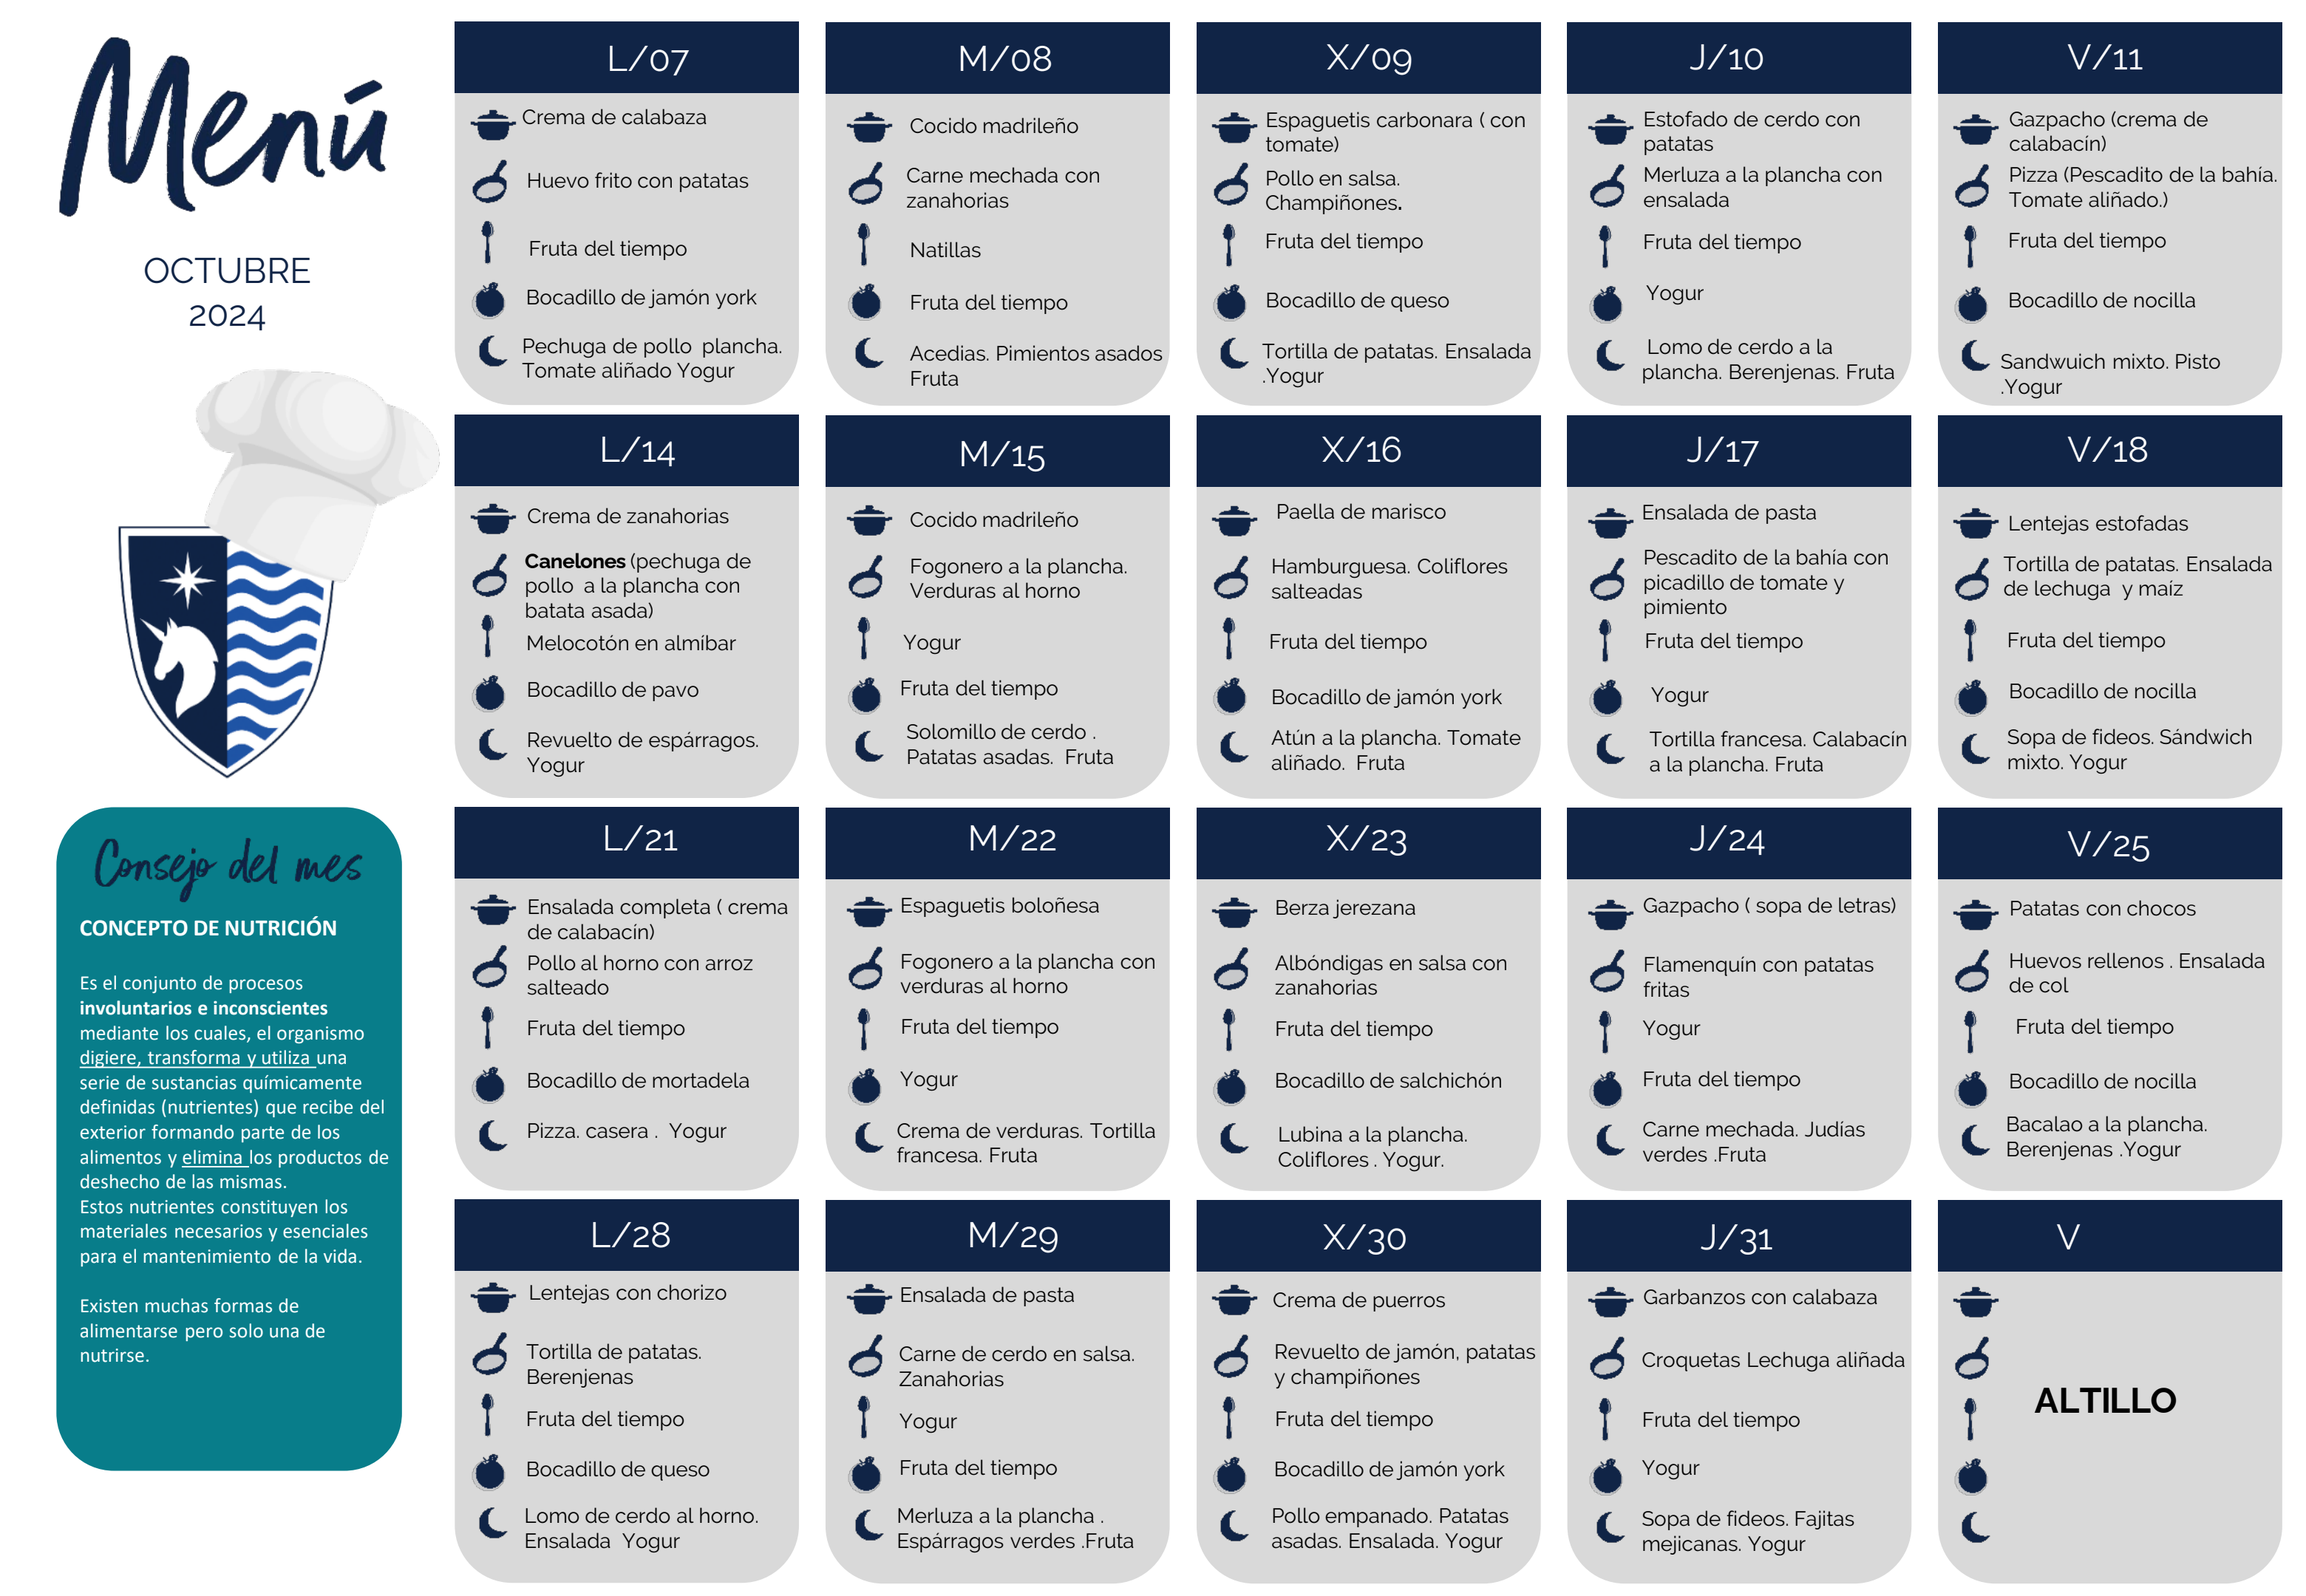
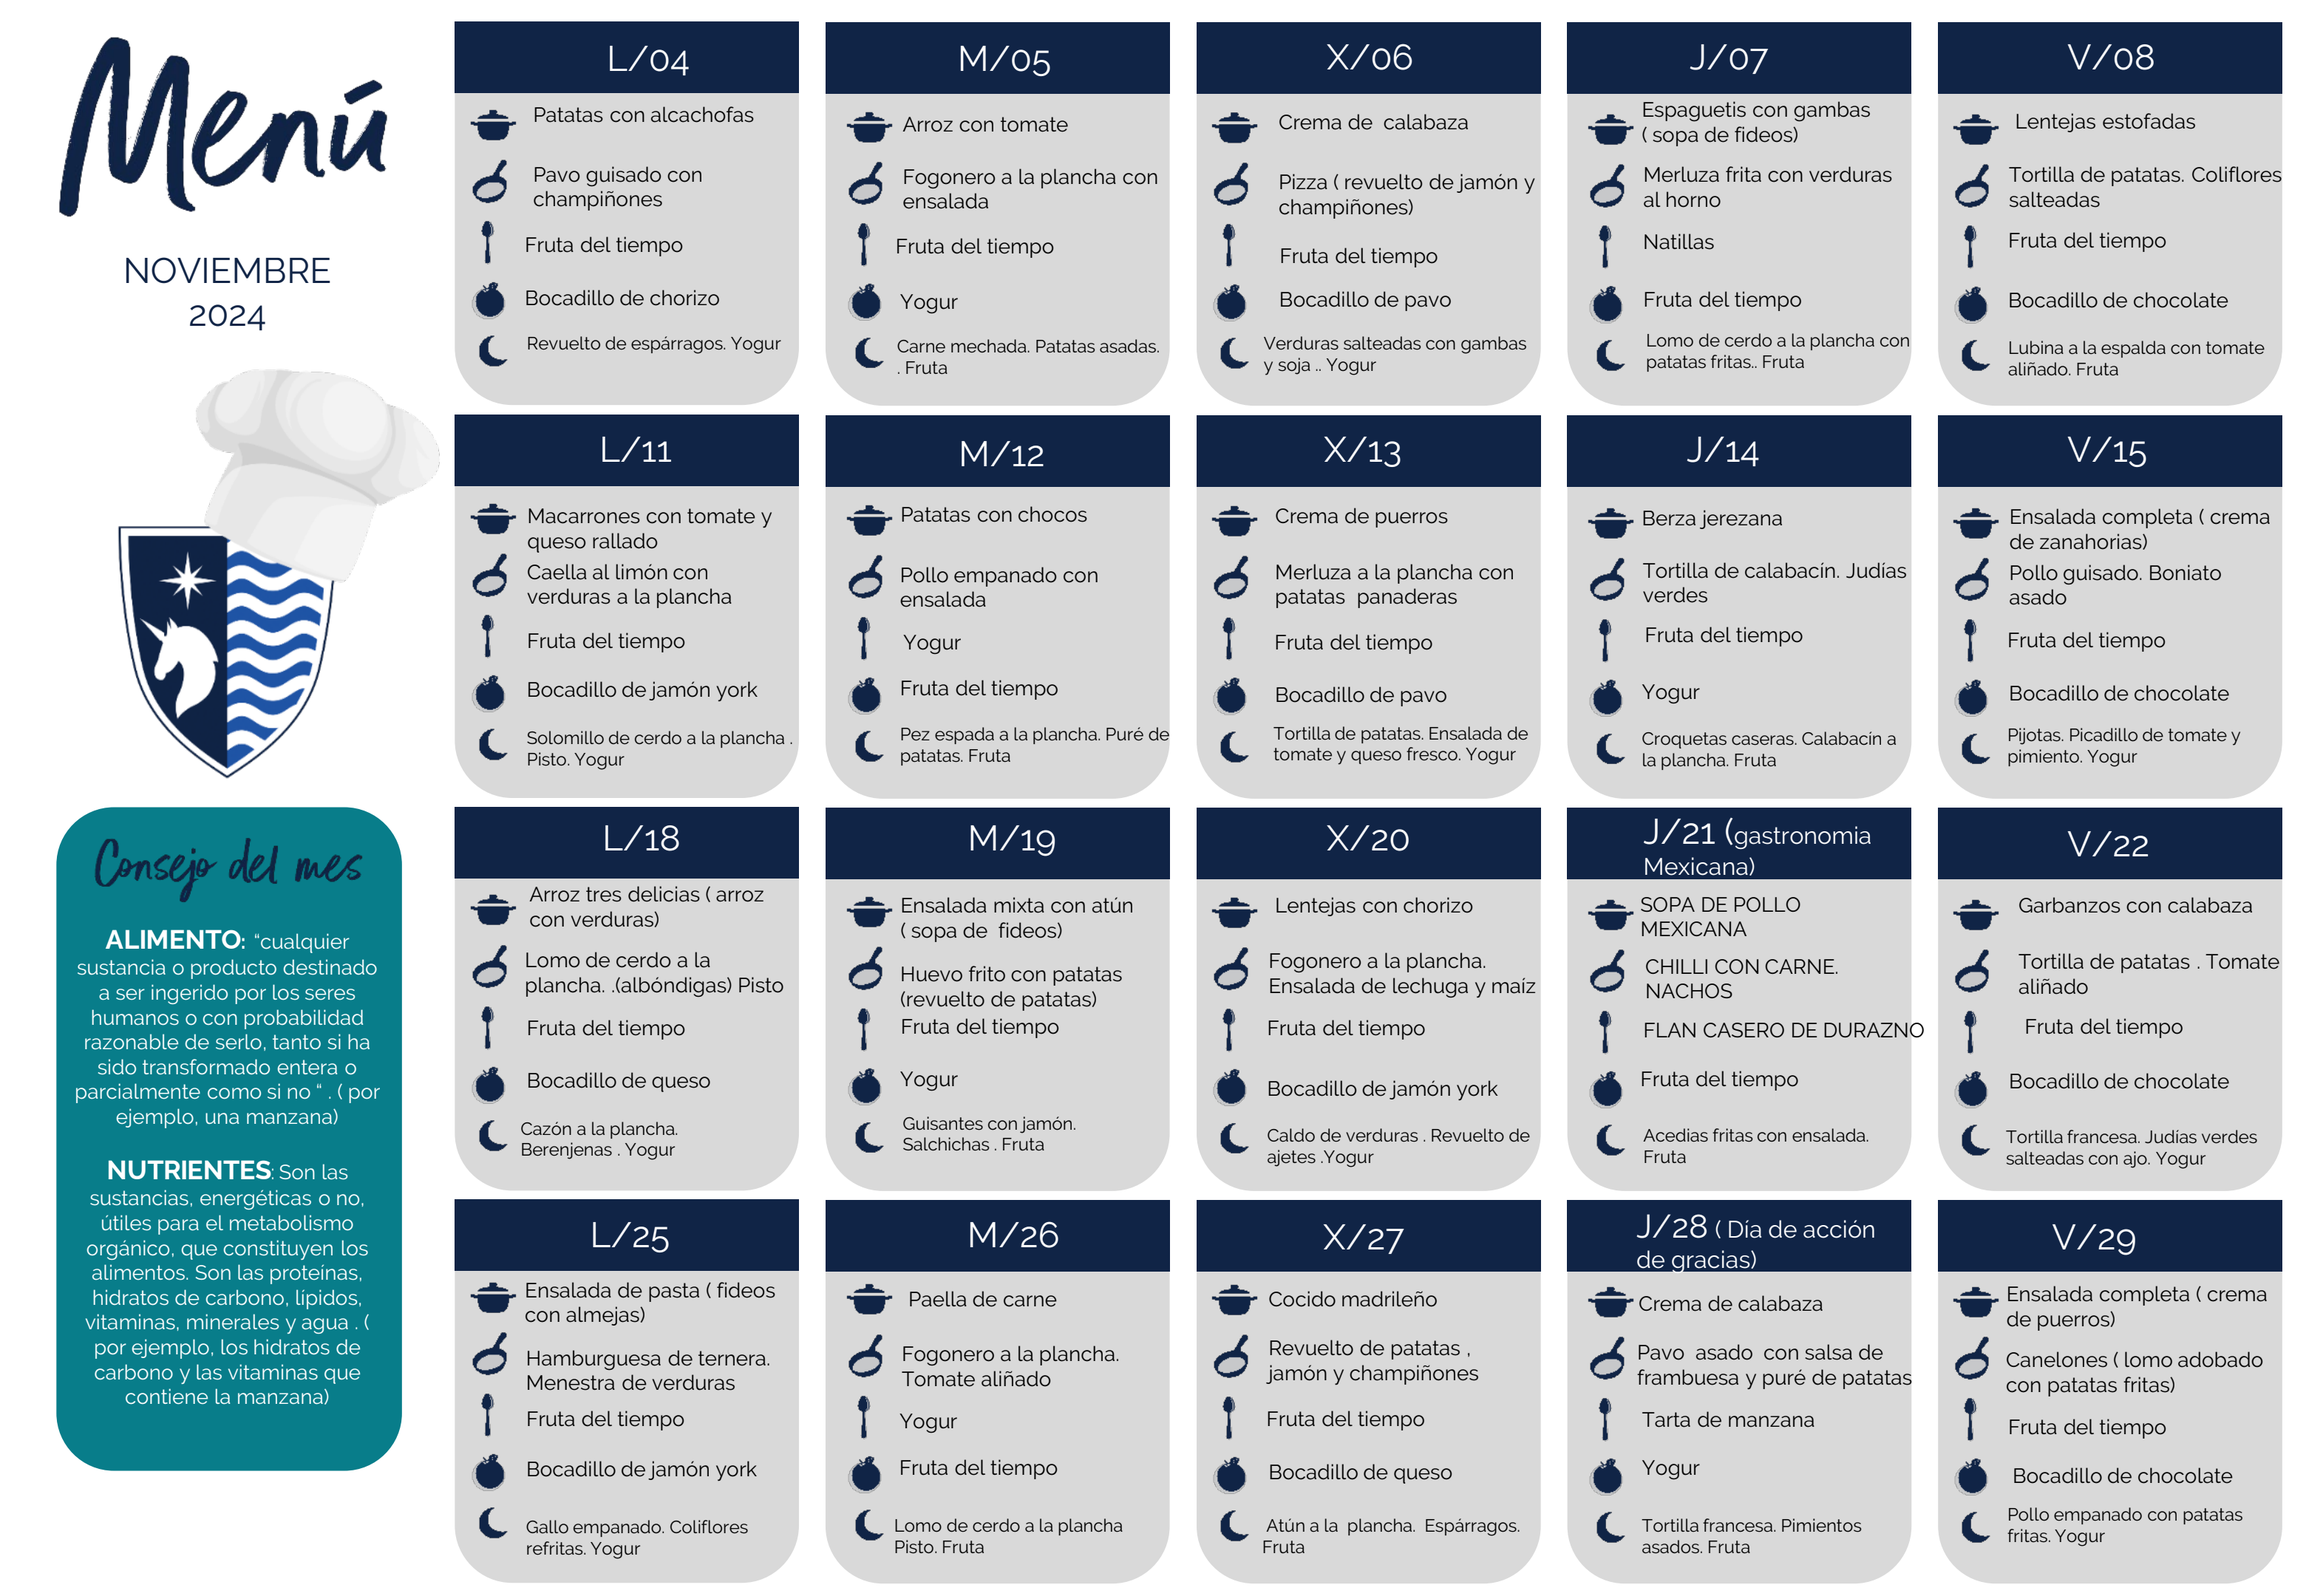
menu actualizado

diff --git a/pages/menu.html b/pages/menu.html
@@ -28,26 +28,30 @@
 </center>
 <script>
   const menu = {
-    "Lunes 7 Oct": ["Crema de calabaza", "Huevo frito con patatas", "Fruta del tiempo"],
-    "Martes 8 Oct": ["Cocido madrileño", "Carne mechada con zanahorias", "Natillas"],
-    "Miércoles 9 Oct": ["Espaguetis carbonara (con tomate)", "Pollo en salsa. Champiñones", "Fruta del tiempo"],
-    "Jueves 10 Oct": ["Estofado de cerdo con patatas", "Merluza a la plancha con ensalada", "Fruta del tiempo"],
-    "Viernes 11 Oct": ["Gazpacho (crema de calabacín)", "Pizza (Pescadito de la bahía. Tomate aliñado)", "Fruta del tiempo"],
-    "Lunes 14 Oct": ["Crema de zanahorias", "Canelones (pechuga de pollo a la plancha con batata asada)", "Melocotón en almíbar"],
-    "Martes 15 Oct": ["Cocido madrileño", "Fogonero a la plancha. Verduras al horno", "Yogur"],
-    "Miércoles 16 Oct": ["Paella de marisco", "Hamburguesa. Coliflores salteadas", "Fruta del tiempo"],
-    "Jueves 17 Oct": ["Ensalada de pasta", "Pescadito de la bahía con picadillo de tomate y pimiento", "Fruta del tiempo"],
-    "Viernes 18 Oct": ["Lentejas estofadas", "Tortilla de patatas. Ensalada de lechuga y maíz", "Fruta del tiempo"],
-    "Lunes 21 Oct": ["Ensalada completa (crema de calabacín)", "Pollo al horno con arroz salteado", "Fruta del tiempo"],
-    "Martes 22 Oct": ["Espaguetis boloñesa", "Fogonero a la plancha con verduras al horno", "Fruta del tiempo"],
-    "Miércoles 23 Oct": ["Berza jerezana", "Albóndigas en salsa con zanahorias", "Fruta del tiempo"],
-    "Jueves 24 Oct": ["Gazpacho (sopa de letras)", "Flamenquín con patatas fritas", "Yogur"],
-    "Viernes 25 Oct": ["Patatas con chocos", "Huevos rellenos. Ensalada de col", "Fruta del tiempo"],
-    "Lunes 28 Oct": ["Lentejas con chorizo", "Tortilla de patatas. Berenjenas", "Fruta del tiempo"],
-    "Martes 29 Oct": ["Ensalada de pasta", "Carne de cerdo en salsa. Zanahorias", "Yogur"],
-    "Miércoles 30 Oct": ["Crema de puerros", "Revuelto de jamón, patatas y champiñones", "Fruta del tiempo"],
-    "Jueves 31 Oct": ["Garbanzos con calabaza", "Croquetas. Lechuga aliñada", "Fruta del tiempo"]
-  };
+  "Lunes 4 Nov": ["Patatas con alcachofas", "Pavo guisado con champiñones", "Fruta del tiempo"],
+  "Martes 5 Nov": ["Arroz con tomate", "Fogonero a la plancha con ensalada", "Fruta del tiempo"],
+  "Miércoles 6 Nov": ["Crema de calabaza", "Pizza (revuelto de jamón y champiñones)", "Fruta del tiempo"],
+  "Jueves 7 Nov": ["Espaguetis con gambas (sopa de fideos)", "Merluza frita con verduras al horno", "Natillas"],
+  "Viernes 8 Nov": ["Lentejas estofadas", "Tortilla de patatas. Coliflores salteadas", "Fruta del tiempo"],
+  
+  "Lunes 11 Nov": ["Macarrones con tomate y queso rallado", "Caella al limón con verduras a la plancha", "Fruta del tiempo"],
+  "Martes 12 Nov": ["Patatas con chocos", "Pollo empanado con ensalada", "Yogur"],
+  "Miércoles 13 Nov": ["Crema de puerros", "Merluza a la plancha con patatas panaderas", "Fruta del tiempo"],
+  "Jueves 14 Nov": ["Berza jerezana", "Tortilla de calabacín. Judías verdes", "Fruta del tiempo"],
+  "Viernes 15 Nov": ["Ensalada completa (crema de zanahorias)", "Pollo guisado. Boniato asado", "Fruta del tiempo"],
+  
+  "Lunes 18 Nov": ["Arroz tres delicias (arroz con verduras)", "Lomo de cerdo a la plancha. Albóndigas. Pisto", "Fruta del tiempo"],
+  "Martes 19 Nov": ["Ensalada mixta con atún (sopa de fideos)", "Huevo frito con patatas (revuelto de patatas)", "Fruta del tiempo"],
+  "Miércoles 20 Nov": ["Lentejas con chorizo", "Fogonero a la plancha. Ensalada de lechuga y maíz", "Fruta del tiempo"],
+  "Jueves 21 Nov": ["ESPECIAL: Gastronomia Mexicana","Sopa de pollo mexicana", "Chili con carne. Nachos", "Flan casero de durazno"],
+  "Viernes 22 Nov": ["Garbanzos con calabaza", "Tortilla de patatas. Tomate aliñado", "Fruta del tiempo"],
+  
+  "Lunes 25 Nov": ["Ensalada de pasta (fideos  con almejas)", "Hamburguesa de ternera. Menestra de verduras", "Fruta del tiempo"],
+  "Martes 26 Nov": ["Paella de carne", "Fogonero a la plancha. Tomate aliñado", "Yogur"],
+  "Miércoles 27 Nov": ["Cocido madrileño", "Revuelto de patatas, jamón y champiñones", "Fruta del tiempo"],
+  "Jueves 28 Nov": ["ESPECIAL: Dia de accion de gracias","Crema de calabaza", "Pavo asado con salsa de frambuesas y puré de patatas", "Fruta de manzana"],
+  "Viernes 29 Nov": ["Ensalada completa (crema de puerros)", "Canelones (lomo adobado con patatas fritas)", "Fruta del tiempo"]
+}
 
   // Helper function to get today's date in the correct format (e.g., "Lunes 28 Oct")
   function getFormattedDate() {
